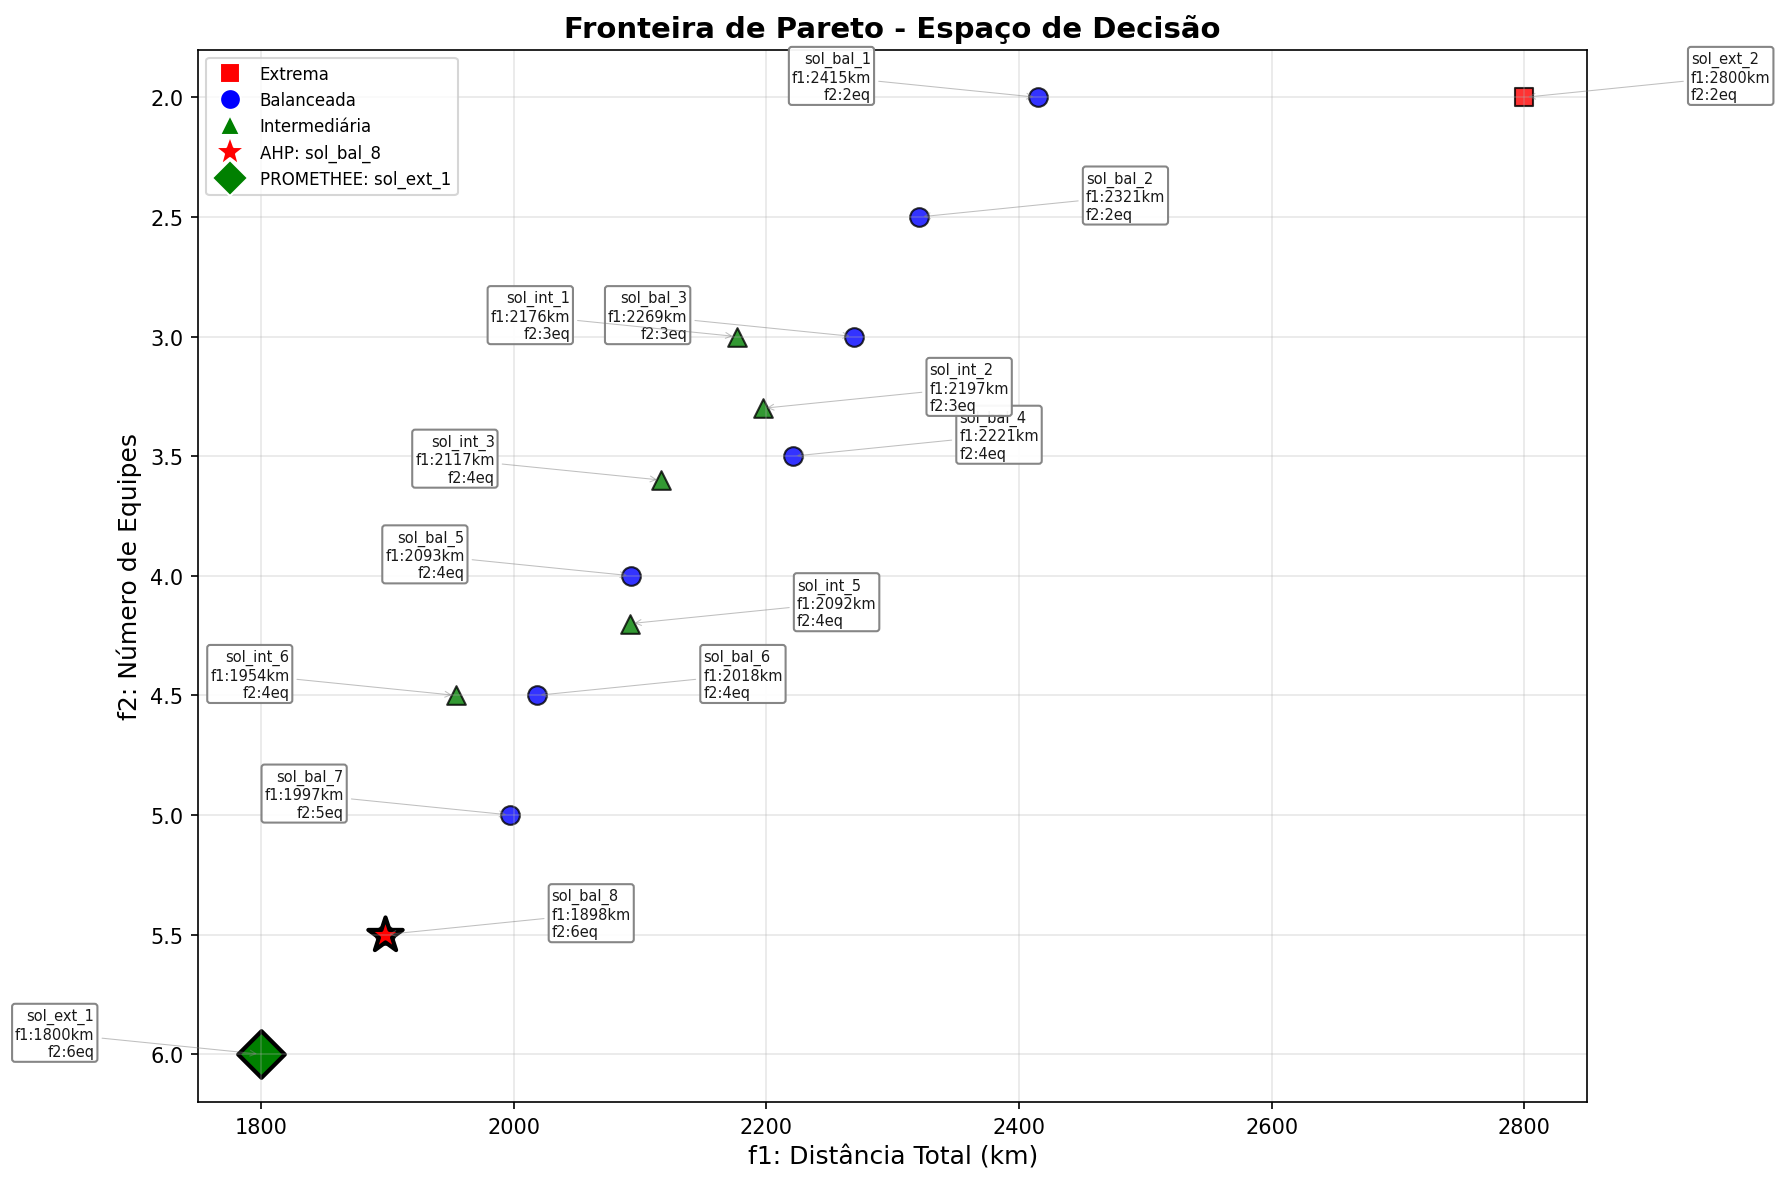
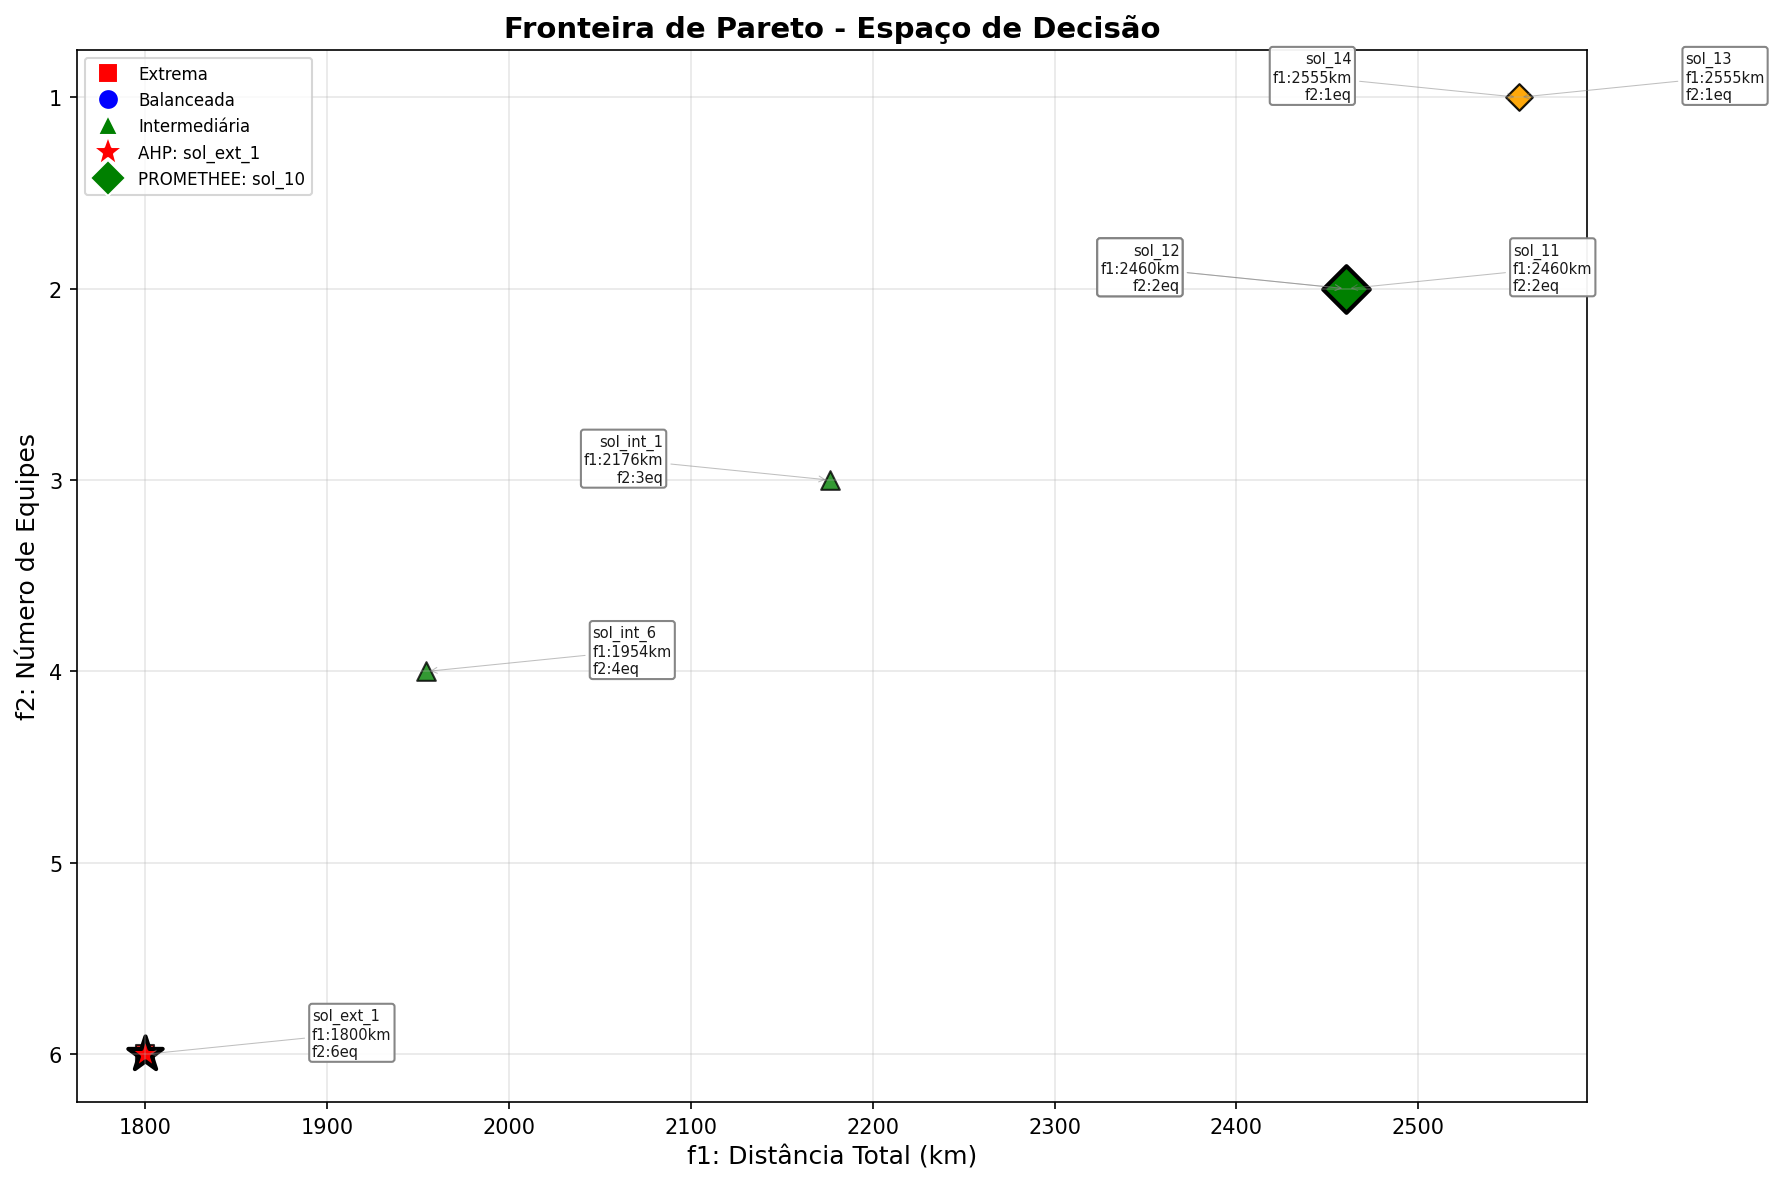
Corrige criterios adicionais para serem independentes (f3,f4) e garante numero inteiro de equipes
- f3 (Facilidade de Implementacao): atributo independente gerado aleatoriamente
- f4 (Impacto Social): atributo independente gerado aleatoriamente
- f2 agora sempre inteiro (numero de equipes)
- Atualiza graficos, relatorios e caminhos de saida

diff --git a/parte3/src/dados_decisao.py b/parte3/src/dados_decisao.py
@@ -248,17 +248,19 @@ class DadosDecisao:
             t = i / (self.n_solucoes - 1)  # 0 a 1
 
             # Função convexa: f2 alto → f1 baixo, f2 baixo → f1 alto
-            f2 = 1 + 7 * t  # 1 a 8 equipes
-            f1 = 2500 - 1700 * (f2 - 1) / 7  # 2500 km quando f2=1, ~800 km quando f2=8
+            f2_float = 1 + 7 * t  # 1 a 8 equipes (float para cálculo)
+            f1 = 2500 - 1700 * (f2_float - 1) / 7  # 2500 km quando f2=1, ~800 km quando f2=8
 
             # Adiciona variação realista
             f1 += np.random.normal(0, 50)
-            f2 = max(1, min(8, f2 + np.random.normal(0, 0.2)))
+            
+            # Garante número inteiro de equipes
+            f2 = int(round(max(1, min(8, f2_float + np.random.normal(0, 0.2)))))
 
             solucoes.append({
                 'id': f'sint_{i+1:02d}',
                 'f1': round(f1, 2),
-                'f2': round(f2, 1),
+                'f2': int(f2),
                 'fonte': 'sintetico'
             })
 
@@ -267,34 +269,27 @@ class DadosDecisao:
     def _gerar_atributos_adicionais(self) -> None:
         """
         Gera atributos adicionais conflitantes para tomada de decisão.
+        
+        Conforme solicitado, estes atributos são independentes da função objetivo (f1 e f2),
+        representando critérios exógenos ao modelo matemático.
 
-        f3 (Confiabilidade): Probabilidade da solução se manter viável se demanda aumentar 10%
-        f4 (Robustez/Balanceamento): Inverso da variância do número de ativos por equipe
+        f3 (Facilidade de Implementação): Avaliação subjetiva (0-1)
+        f4 (Impacto Social): Avaliação do benefício social (0-1)
         """
-        print("Gerando atributos adicionais para tomada de decisao...")
+        print("Gerando atributos adicionais independentes para tomada de decisao...")
 
         for sol in self.soluções:
-            f2 = sol['f2']
+            # f3: Facilidade de Implementação (maximizar)
+            # Gerado aleatoriamente para simular um critério independente
+            # Valores entre 0.4 e 0.95
+            sol['f3'] = round(np.random.uniform(0.4, 0.95), 3)
 
-            # f3: Confiabilidade (maximizar)
-            # Soluções com mais equipes tendem a ser mais confiáveis (mais redundância)
-            # Mas há trade-off: soluções muito robustas podem ser custosas
-            confiabilidade_base = 0.7 + 0.2 * (f2 - 1) / 7  # 70% a 90%
-            # Adiciona variabilidade baseada na eficiência da solução
-            eficiencia = 1 - (sol['f1'] - 800) / (2500 - 800)  # 0 a 1 (mais eficiente = 1)
-            confiabilidade = confiabilidade_base * (0.8 + 0.4 * eficiencia)
-            sol['f3'] = round(min(0.95, max(0.5, confiabilidade + np.random.normal(0, 0.05))), 3)
+            # f4: Impacto Social (maximizar)
+            # Gerado aleatoriamente para simular um critério independente
+            # Valores entre 0.5 e 0.98
+            sol['f4'] = round(np.random.uniform(0.5, 0.98), 3)
 
-            # f4: Robustez/Balanceamento (maximizar)
-            # Mede o equilíbrio na distribuição de ativos por equipe
-            # Soluções bem balanceadas têm variância menor na distribuição de carga
-            # Assumimos que soluções com mais equipes tendem a ser melhor balanceadas
-            balanceamento_base = 0.6 + 0.3 * (f2 - 1) / 7  # 60% a 90%
-            # Penaliza soluções com número "estranho" de equipes
-            penalidade = 0.05 * abs(f2 - round(f2))  # Penaliza números não-inteiros
-            sol['f4'] = round(min(0.95, max(0.4, balanceamento_base - penalidade + np.random.normal(0, 0.03))), 3)
-
-        print(f"Atributos gerados para {len(self.soluções)} solucoes")
+        print(f"Atributos independentes gerados para {len(self.soluções)} solucoes")
 
     def obter_matriz_decisao(self) -> Tuple[np.ndarray, List[str], List[str]]:
         """
@@ -489,14 +484,16 @@ class DadosDecisao:
         solucoes_balanceadas = []
         for i in range(8):
             # Cria trade-off não-linear típico de problemas reais
-            f2 = 2 + i * 0.5  # 2, 2.5, 3, 3.5, ..., 6 equipes
+            f2_base = 2 + i * 0.5  # Base para cálculo
+            f2 = int(round(f2_base))  # Inteiro: 2, 3, 4...
+            
             # Distância aumenta com menos equipes (relação realista)
-            f1 = 1800 + (6 - f2) * 150  # Distância cresce com menos equipes
+            f1 = 1800 + (8 - f2_base) * 150  # Distância cresce com menos equipes
 
             sol = {
                 'id': f'sol_bal_{i+1}',
                 'f1': round(f1 + np.random.normal(0, 30), 1),  # Variação natural
-                'f2': round(f2, 1),
+                'f2': int(f2),
                 'fonte': 'sintetica_balanceada'
             }
             solucoes_balanceadas.append(sol)
@@ -504,13 +501,15 @@ class DadosDecisao:
         # Soluções intermediárias adicionais para mais diversidade
         solucoes_intermediarias = []
         for i in range(6):
-            f2 = 3 + i * 0.3  # Entre 3 e 5 equipes
-            f1 = 2000 + (5 - f2) * 100 + np.random.normal(0, 50)
+            f2_base = 3 + i * 0.3  # Entre 3 e 5 equipes
+            f2 = int(round(f2_base))
+            
+            f1 = 2000 + (5 - f2_base) * 100 + np.random.normal(0, 50)
 
             sol = {
                 'id': f'sol_int_{i+1}',
                 'f1': round(max(1800, min(2800, f1)), 1),
-                'f2': round(f2, 1),
+                'f2': int(f2),
                 'fonte': 'sintetica_intermediaria'
             }
             solucoes_intermediarias.append(sol)

diff --git a/parte3/src/relatorios_decisao.py b/parte3/src/relatorios_decisao.py
@@ -96,8 +96,8 @@ class RelatoriosDecisao:
         criterios_info = {
             'f1': ('Distância Total (km)', 'Minimizar'),
             'f2': ('Número de Equipes', 'Minimizar'),
-            'f3': ('Confiabilidade (%)', 'Maximizar'),
-            'f4': ('Robustez/Balanceamento', 'Maximizar')
+            'f3': ('Facilidade de Implementação', 'Maximizar'),
+            'f4': ('Impacto Social', 'Maximizar')
         }
 
         for crit, (nome, sentido) in criterios_info.items():
@@ -126,31 +126,26 @@ class RelatoriosDecisao:
         secao.append("  Cálculo: Determinado pelo algoritmo VNS (número de rotas)")
         secao.append("  Importância: Custo de recursos humanos")
         secao.append("")
-        secao.append("f₃ - CONFIABILIDADE (%):")
+        secao.append("f₃ - FACILIDADE DE IMPLEMENTAÇÃO:")
         secao.append("  Tipo: Maximização")
-        secao.append("  Descrição: Probabilidade de viabilidade se demanda aumentar 10%")
-        secao.append("  Cálculo:")
-        secao.append("    • Base: 70% a 90% (função do número de equipes)")
-        secao.append("    • Eficiência: baseada na proximidade do ótimo de distância")
-        secao.append("    • Final: base × (0.8 + 0.4 × eficiência)")
-        secao.append("    • Range: 50% a 95% com variação aleatória (σ=0.05)")
-        secao.append("  Interpretação: Maior redundância aumenta confiabilidade")
+        secao.append("  Descrição: Avaliação qualitativa da facilidade técnica e operacional")
+        secao.append("  Cálculo: Valor atribuído independentemente (exógeno)")
+        secao.append("  Range: 0 a 1 (normalizado)")
+        secao.append("  Interpretação: Maior facilidade reduz riscos de projeto")
         secao.append("")
-        secao.append("f₄ - ROBUSTEZ/BALANCEAMENTO:")
+        secao.append("f₄ - IMPACTO SOCIAL:")
         secao.append("  Tipo: Maximização")
-        secao.append("  Descrição: Equilíbrio na distribuição de ativos por equipe")
-        secao.append("  Cálculo:")
-        secao.append("    • Base: 60% a 90% (função do número de equipes)")
-        secao.append("    • Penalidade: para números não-inteiros de equipes")
-        secao.append("    • Range: 40% a 95% com variação aleatória (σ=0.03)")
-        secao.append("  Interpretação: Melhor distribuição de carga entre equipes")
+        secao.append("  Descrição: Benefício percebido pela comunidade atendida")
+        secao.append("  Cálculo: Valor atribuído independentemente (exógeno)")
+        secao.append("  Range: 0 a 1 (normalizado)")
+        secao.append("  Interpretação: Maior aceitação e retorno social")
         secao.append("")
 
         # Lista de soluções
         secao.append("SOLUÇÕES CANDIDATAS:")
         secao.append("-" * 40)
         for _, row in dados.iterrows():
-            secao.append(f"  {row['id']}: f1={row['f1']:.1f}, f2={row['f2']:.0f}, f3={row['f3']:.1f}, f4={row['f4']:.3f}")
+            secao.append(f"  {row['id']}: f1={row['f1']:.1f}, f2={row['f2']:.0f}, f3={row['f3']:.3f}, f4={row['f4']:.3f}")
         secao.append("")
 
         return secao
@@ -344,8 +339,8 @@ class RelatoriosDecisao:
             secao.append("-" * 40)
             secao.append(f"Distância Total: {sol_escolhida['f1']:.1f} km")
             secao.append(f"Número de Equipes: {sol_escolhida['f2']:.0f}")
-            secao.append(f"Confiabilidade: {sol_escolhida['f3']:.1f}%")
-            secao.append(f"Robustez/Balanceamento: {sol_escolhida['f4']:.3f}")
+            secao.append(f"Facilidade de Implementação: {sol_escolhida['f3']:.3f}")
+            secao.append(f"Impacto Social: {sol_escolhida['f4']:.3f}")
         secao.append("")
 
         # Limitações dos métodos
@@ -368,8 +363,8 @@ class RelatoriosDecisao:
         secao.append("Esta solução representa o melhor equilíbrio entre:")
         secao.append("  • Minimização da distância total percorrida pelas equipes")
         secao.append("  • Minimização do número de equipes (custos operacionais)")
-        secao.append("  • Maximização da confiabilidade perante variações")
-        secao.append("  • Maximização do balanceamento de carga entre equipes")
+        secao.append("  • Maximização da facilidade de implementação")
+        secao.append("  • Maximização do impacto social positivo")
         secao.append("")
         secao.append("A solução escolhida oferece robustez e eficiência para aplicação prática.")
 

diff --git a/parte3/src/visualizacao_decisao.py b/parte3/src/visualizacao_decisao.py
@@ -161,8 +161,8 @@ class VisualizacaoDecisao:
         plt.tight_layout()
 
         if salvar:
-            os.makedirs('parte3/resultados/graficos', exist_ok=True)
-            caminho = 'parte3/resultados/graficos/fronteira_pareto_decisao.png'
+            os.makedirs('resultados/graficos', exist_ok=True)
+            caminho = 'resultados/graficos/fronteira_pareto_decisao.png'
             fig.savefig(caminho, dpi=self.dpi, bbox_inches='tight')
             print(f"Gráfico salvo em: {caminho}")
 
@@ -206,7 +206,7 @@ class VisualizacaoDecisao:
 
         # Categorias do radar (critérios) - com escalas reais
         categorias = ['f1\n(Distância km)', 'f2\n(Equipes x100)',
-                     'f3\n(Confiabilidade x1000)', 'f4\n(Robustez x1000)']
+                     'f3\n(Facilidade Impl. x1000)', 'f4\n(Impacto Social x1000)']
         n_categorias = len(categorias)
 
         # Ângulos para cada categoria
@@ -271,8 +271,8 @@ class VisualizacaoDecisao:
         plt.tight_layout()
 
         if salvar:
-            os.makedirs('parte3/resultados/graficos', exist_ok=True)
-            caminho = 'parte3/resultados/graficos/perfil_solucoes_radar.png'
+            os.makedirs('resultados/graficos', exist_ok=True)
+            caminho = 'resultados/graficos/perfil_solucoes_radar.png'
             fig.savefig(caminho, dpi=self.dpi, bbox_inches='tight')
             print(f"Gráfico salvo em: {caminho}")
 

diff --git a/parte3/rodar.py b/parte3/rodar.py
@@ -9,10 +9,10 @@ Métodos implementados:
 - PROMETHEE II: Sobreclassificação com fluxos de preferência
 
 Critérios de decisão:
-- f1: Distância total (minimizar)
-- f2: Número de equipes (minimizar)
-- f3: Confiabilidade (maximizar) - atributo adicional gerado sinteticamente
-- f4: Robustez/Balanceamento (maximizar) - atributo adicional gerado sinteticamente
+    - f1: Distância total (minimizar)
+    - f2: Número de equipes (minimizar)
+    - f3: Facilidade de Implementação (maximizar) - atributo adicional independente
+    - f4: Impacto Social (maximizar) - atributo adicional independente
 """
 
 import numpy as np
@@ -73,7 +73,7 @@ def main():
         print("Atributos adicionais gerados (f3, f4)")
 
         # Salvar dados em CSV
-        dados_decisao.salvar_dados("parte3/resultados/dados_decisao.csv")
+        dados_decisao.salvar_dados("resultados/dados_decisao.csv")
         print()
 
         # 2. Executar método AHP
@@ -134,7 +134,7 @@ def main():
         print("Gerando relatório completo...")
         relatorio = relatorios.gerar_relatorio_completo(
             df_decisao, resultados_ahp, resultados_promethee,
-            caminho="parte3/resultados/relatorios/relatorio_decisao.txt"
+            caminho="resultados/relatorios/relatorio_decisao.txt"
         )
         print(f"Relatório gerado com {len(relatorio.split(chr(10)))} linhas")
         print()
